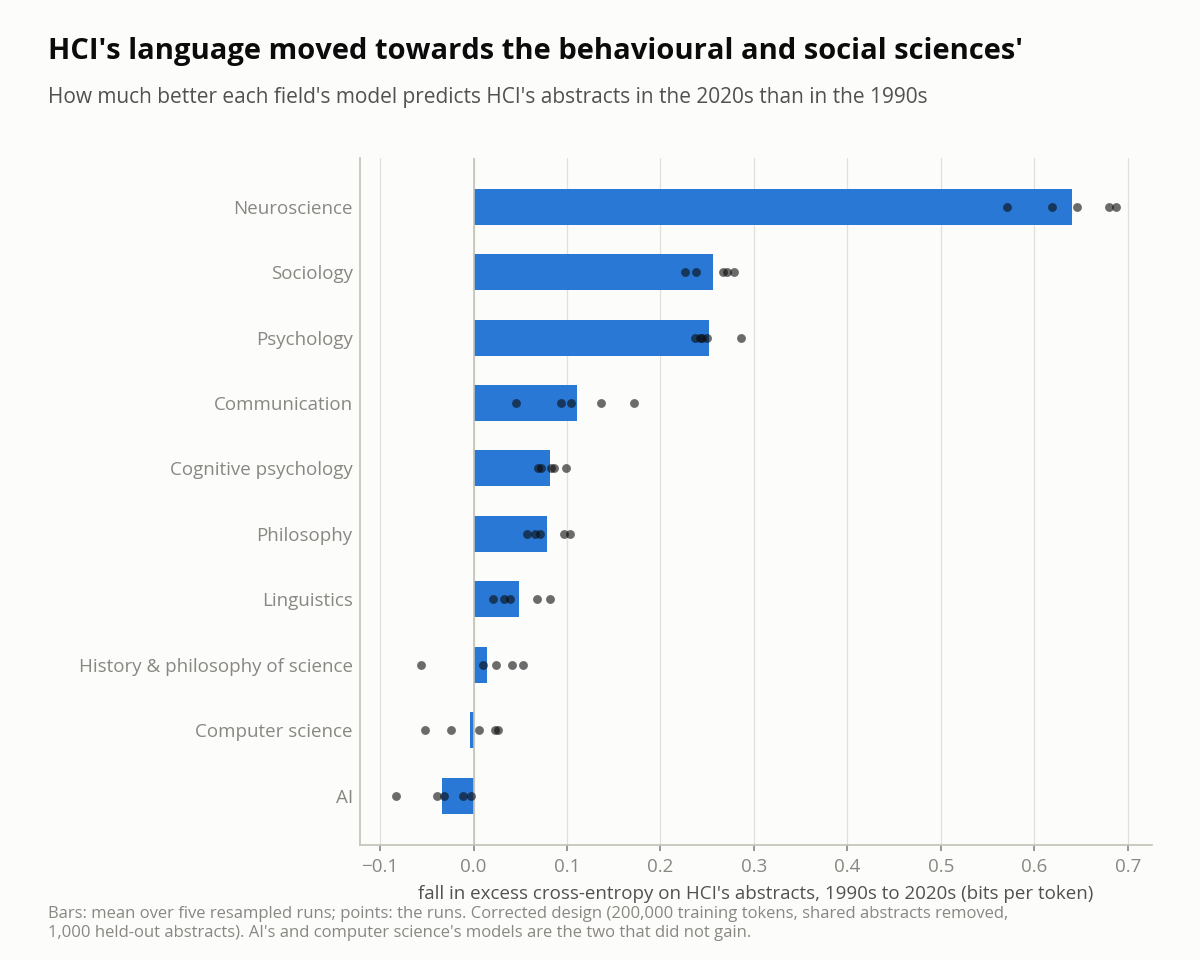
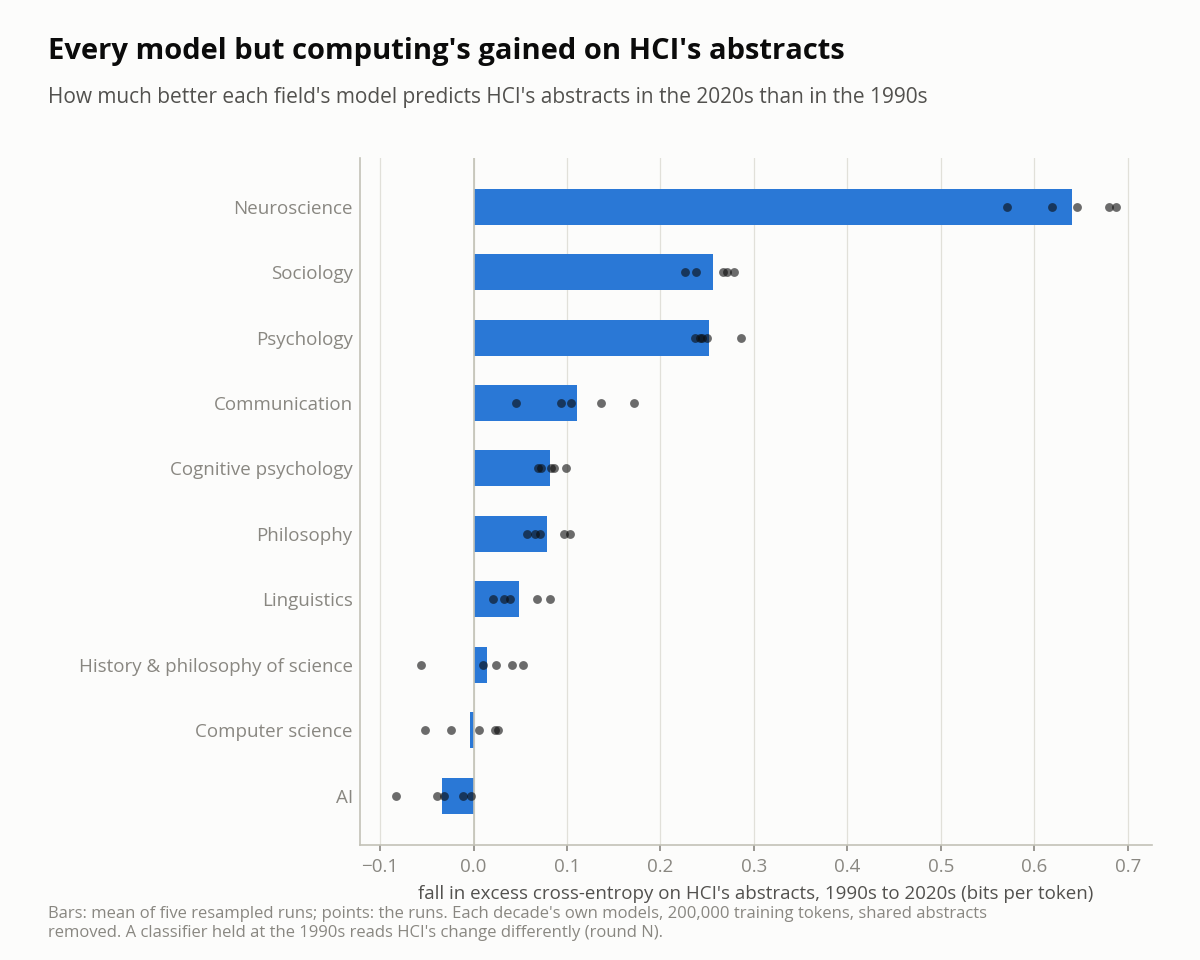
docs(figures): retitle the HCI gains figure as what the language models measured
The old title stated a direction the README no longer claims. The figure shows each decade's own models gaining on HCI's abstracts; the footnote points to round N's different reading.

Changed region(s): [[0.0308, 0.9375, 0.8325, 1.0], [0.0308, 0.0312, 0.8633, 0.0625]]

diff --git a/src/interpretant/visualization/figures.py b/src/interpretant/visualization/figures.py
@@ -384,9 +384,9 @@ def readme_figures(model_dir: Path, drift_dir: Path, audit_path: Path) -> dict[s
         "hci",
         1990,
         2020,
-        title="HCI's language moved towards the behavioural and social sciences'",
+        title="Every model but computing's gained on HCI's abstracts",
         subtitle="How much better each field's model predicts HCI's abstracts in the 2020s than in the 1990s",  # noqa: E501
-        footnote="Bars: mean over five resampled runs; points: the runs. Corrected design (200,000 training tokens, shared abstracts removed, 1,000 held-out abstracts). AI's and computer science's models are the two that did not gain.",  # noqa: E501
+        footnote="Bars: mean of five resampled runs; points: the runs. Each decade's own models, 200,000 training tokens, shared abstracts removed. A classifier held at the 1990s reads HCI's change differently (round N).",  # noqa: E501
     )
     report = json.loads(audit_path.read_text(encoding="utf-8"))
     audited = pd.DataFrame(report["cells"])
